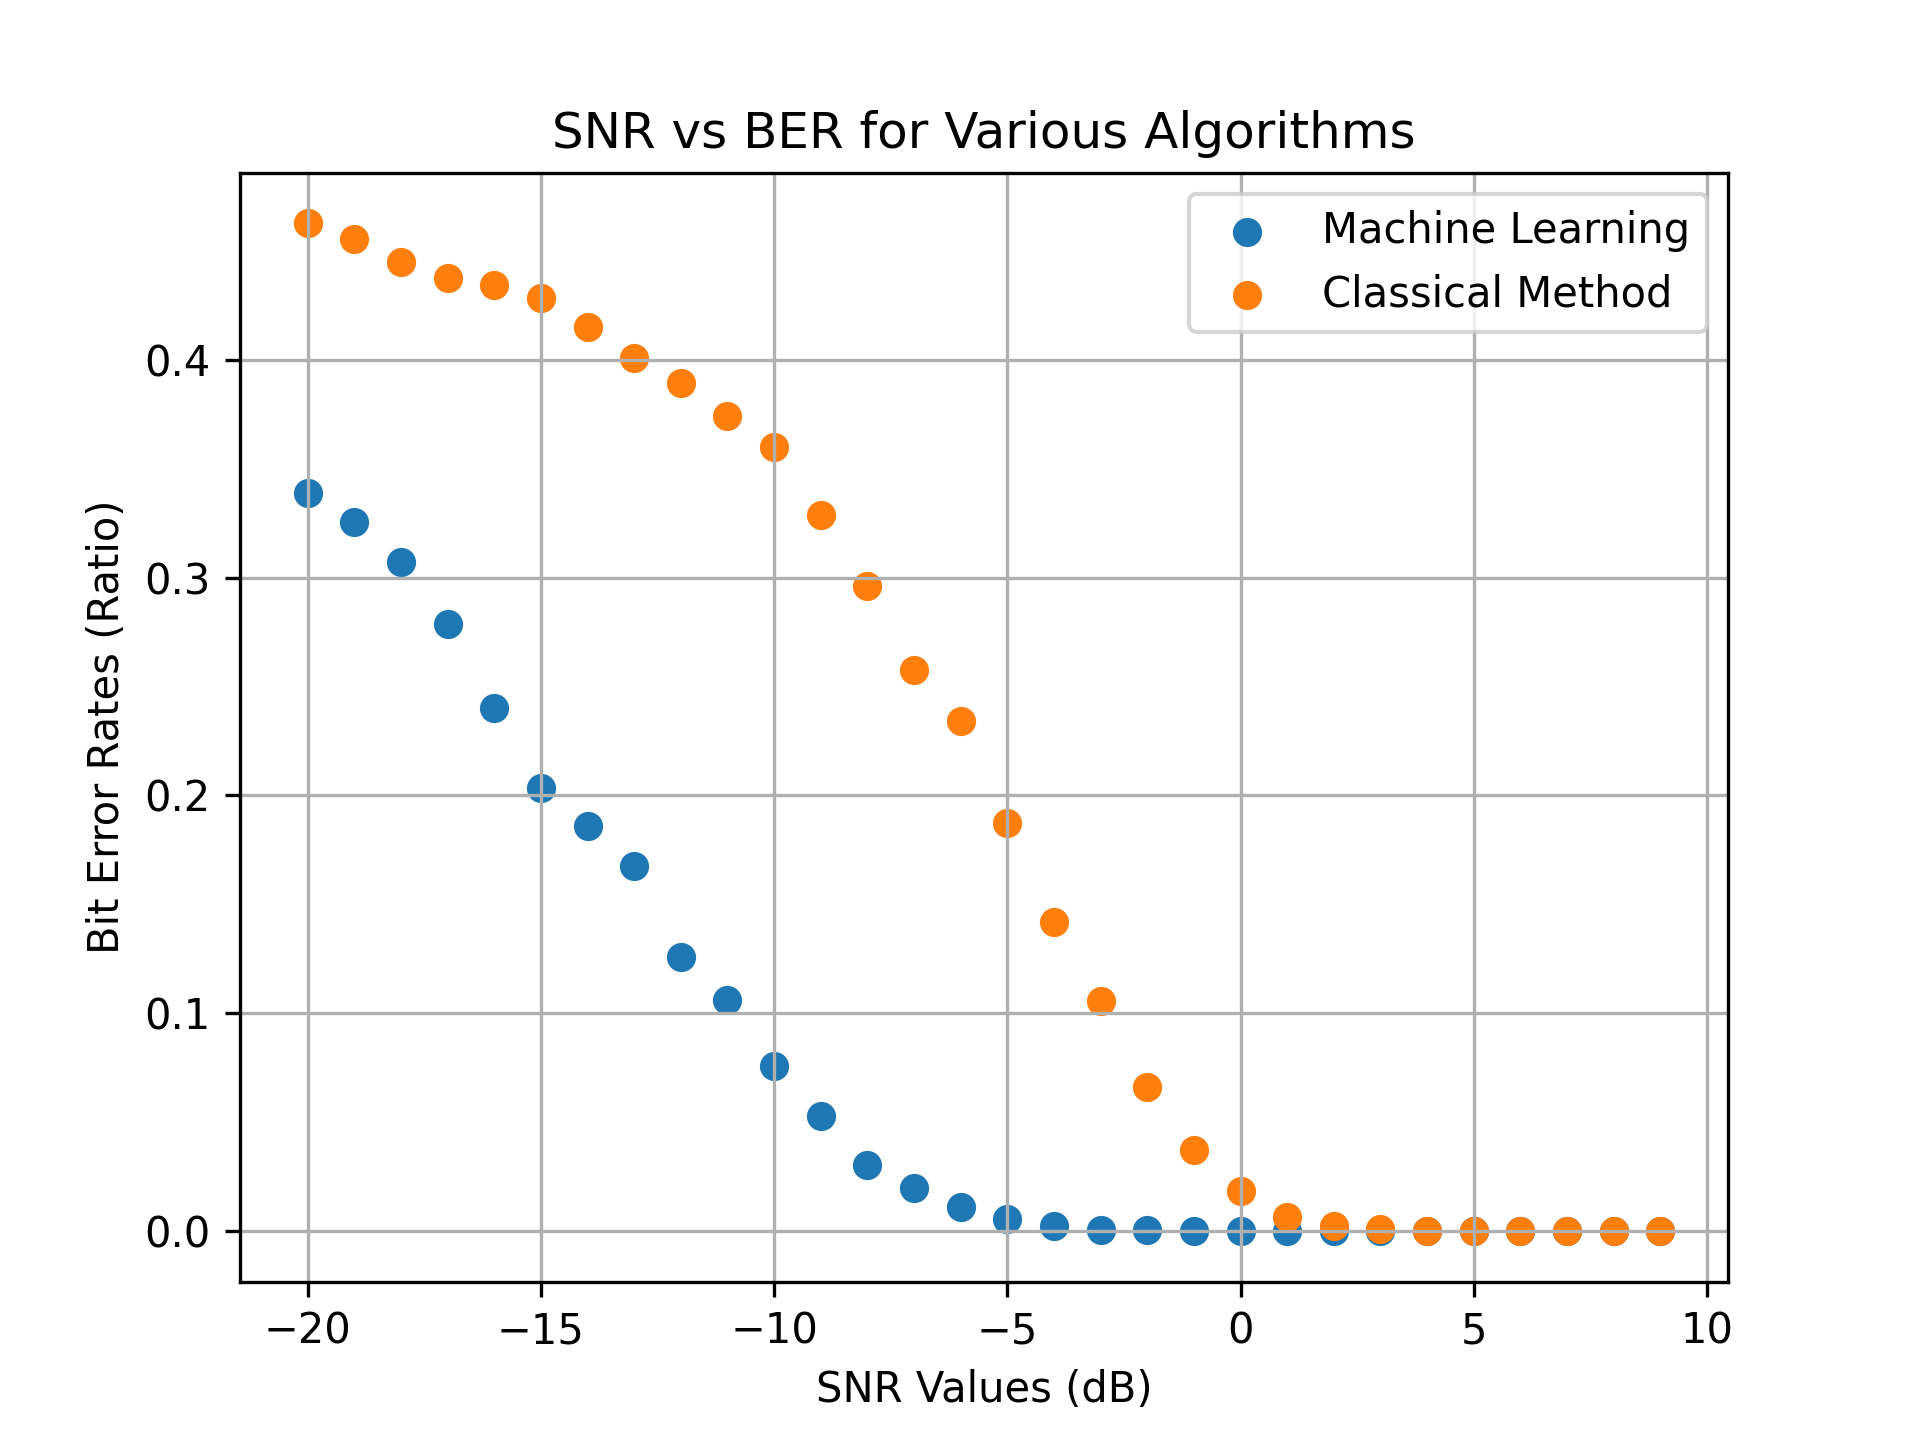
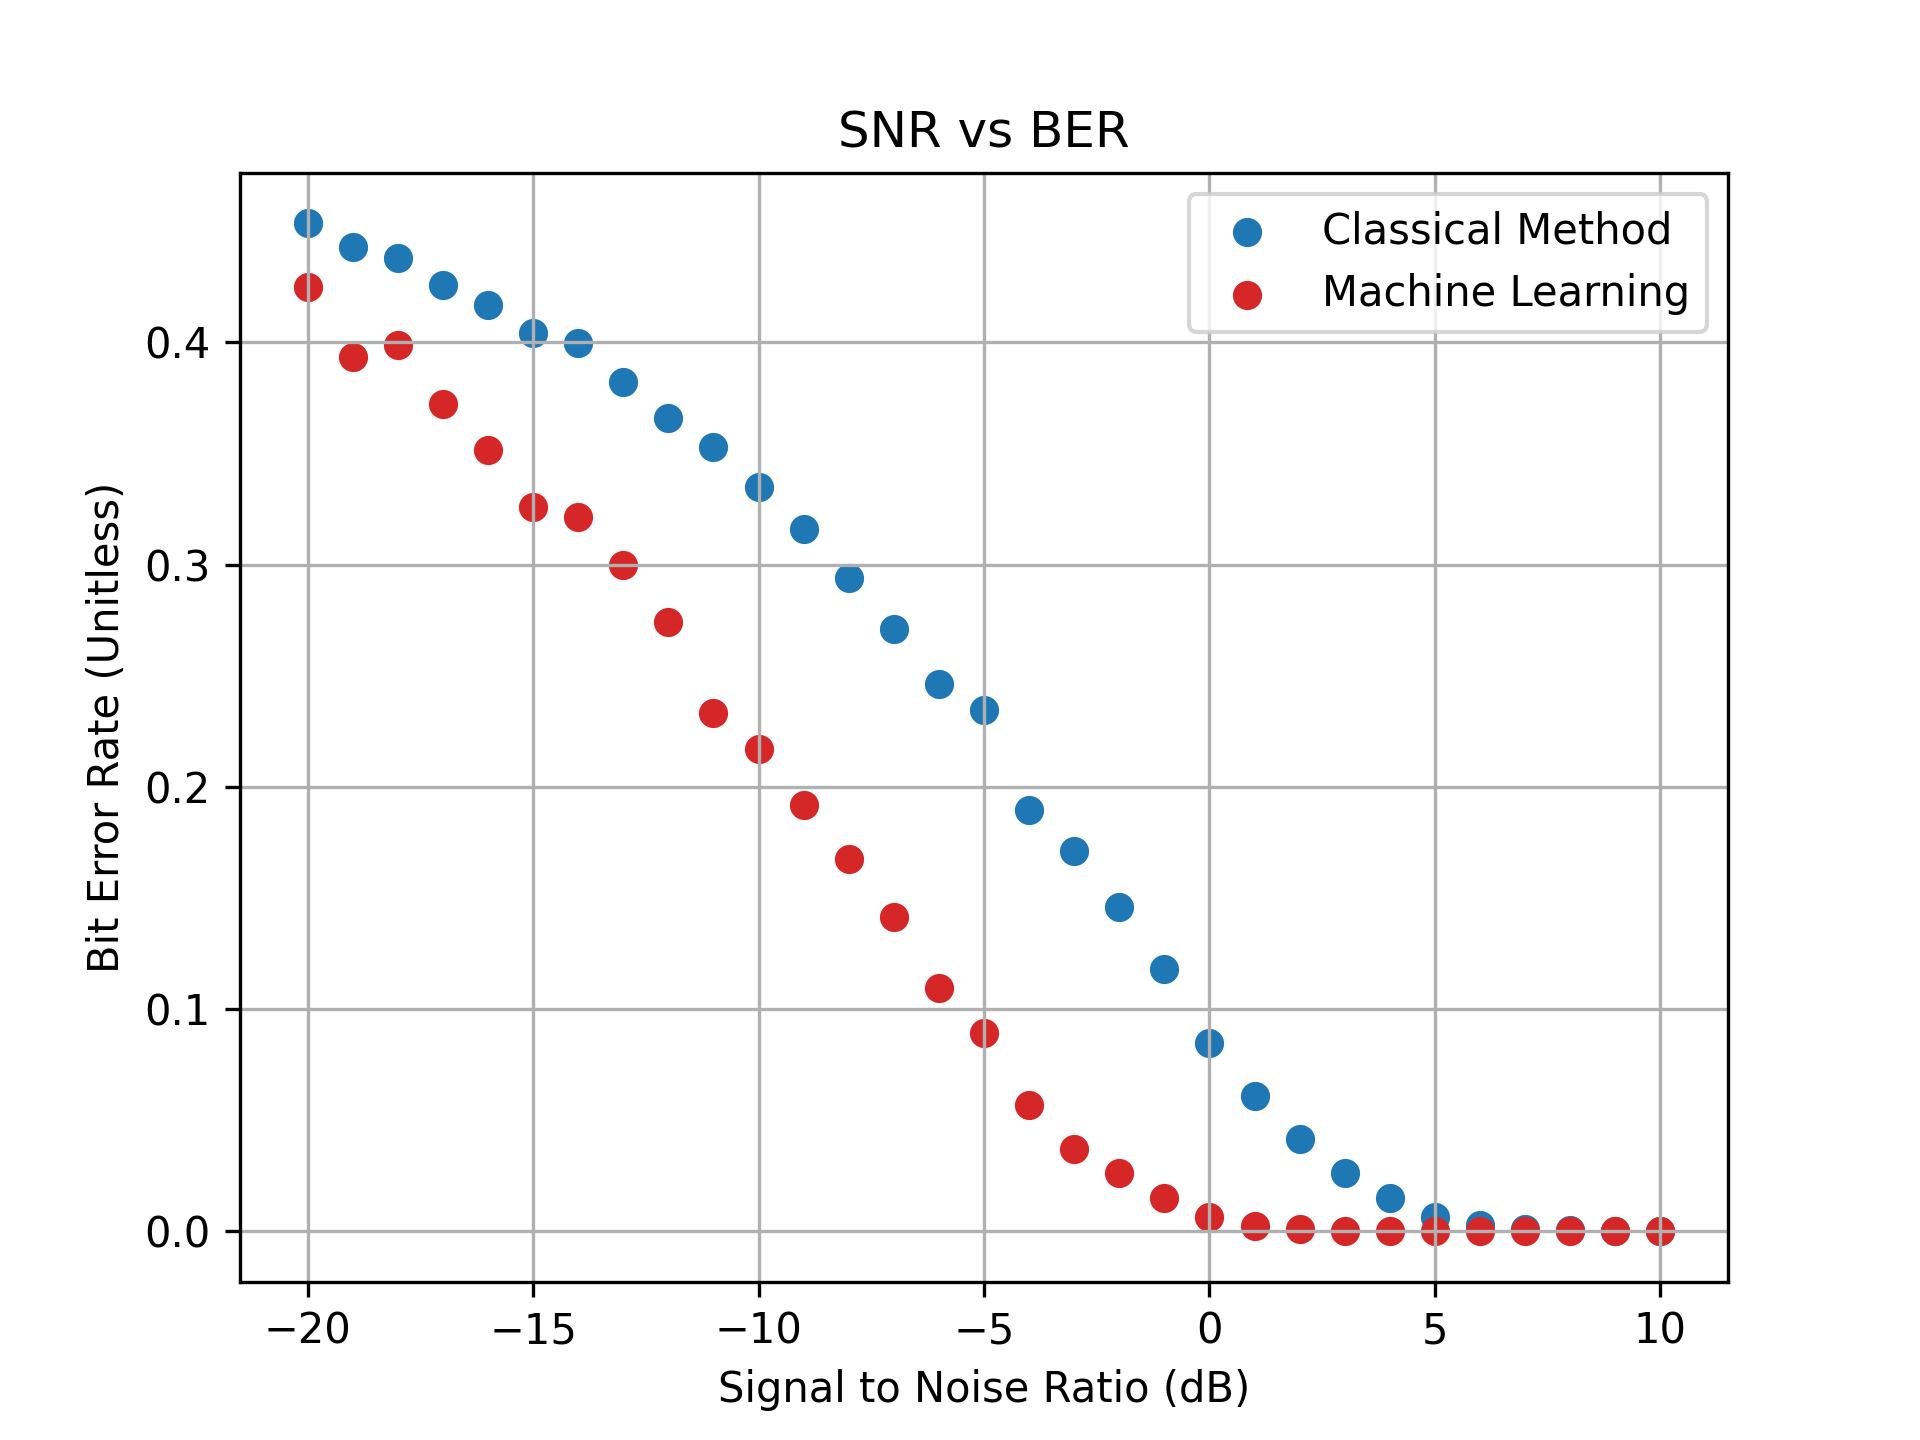
submit extra credit proj

diff --git a/projects/extra_credit/extra_credit.py b/projects/extra_credit/extra_credit.py
@@ -27,8 +27,9 @@ import os
 
 # Define the number of bits, the number of samples, the frequency of the sinewave, and whether to make a graph of SNR vs BER at the end.
 NUM_BITS = 10_000
-NUM_SAMP = 20
-FREQ = 10e6
+NUM_SAMP = 3
+# FREQ = 10e6
+FREQ = 1 / NUM_SAMP
 PERIOD = 1 / FREQ
 OMEGA = 2*np.pi*FREQ
 MAKE_GRAPH = False
@@ -38,15 +39,21 @@ MAKE_GRAPH = False
 ###########################################
 
 def generate_data(snr_dB: float):
-    """This function generates the data used by both the machine learning algorithm and the classical algorithm.\n
+    """This function generates the data used by both the machine learning algorithm and the classical algorithm.
 
-       *****Inputs*****\n
-       snr_dB: This is the signal to noise ratio expressed in dB. This is used to determine the noise standard deviation.\n
+    Parameters
+    ----------
+    snr_dB : float or int
+        This is the signal to noise ratio expressed in dB. This is used to determine the noise standard deviation.
        
-       *****Outputs*****\n
-       random_bits: This includes all of the randomly generated bits. We use this as the answer key.\n
-       sample_times: The points in time when we sampled the waveform. This is used in the classical demodulation algorithm.\n
-       dirty_array: The sample values of the sinewave we created, with the noise added to it."""
+    Returns
+    -------
+    random_bits : np.array
+       This includes all of the randomly generated bits. We use this as the answer key.
+    sample_times : np.array
+       The points in time when we sampled the waveform. This is used in the classical demodulation algorithm.
+    dirty_array : np.array
+       The sample values of the sinewave we created, with the noise added to it."""
 
     # Find the noise standard deviation associated with this SNR value.
     snr_rat = 10**(snr_dB/10)
@@ -75,16 +82,32 @@ def generate_data(snr_dB: float):
 ############################################
 
 def estimate_phase(sample_times: np.array, sample_values: np.array, freq_guesses: np.array):
-    """This function will estimate the phase of a sampled waveform.\n
+    """This function will estimate the phase of a sampled waveform.
 
-       ****Inputs*****\n
-       sample_times: The points in time when we sampled the waveform. This is used in the classical demodulation algorithm.\n
-       sample_values: The sample values of the sinewave we created, with the noise added to it.\n
-       freq_guesses: The frequency values that we want to test. The final answer will rely on the correct frequency being in this array.\n
+    Parameters
+    ----------
+    sample_times : np.array
+       The points in time when we sampled the waveform. This is used in the classical demodulation algorithm.
+    sample_values : np.array
+       The sample values of the sinewave we created, with the noise added to it.
+    freq_guesses : np.array
+       The frequency values that we want to test. The final answer will rely on the correct frequency being in this array.
 
-       *****Outputs*****\n
-       phase_est: This is the algorithm's estimate for what the phase of that waveform should be."""
+    Returns
+    -------
+    phase_est : float
+       This is the algorithm's estimate for what the phase of that waveform should be."""
     
+    # This code is taken from the module 4 examples and modified slightly. 
+    # We are attempting to find the frequency of the transmitted wave after traversing a noisy channel. 
+    # To do this, we are using the following equation: J = H * inv(HT*H) * HT*X
+    # H is a matrix with the first column being cos terms and the second being sin terms. Each row corresponds to a different sample.
+    # X is the vector of samples, and I chose to name that "sample_values" in my code. 
+    # After guessing a bunch of frequencies, we choose the best one and evaluate the equation for that frequency. 
+    # Once we substitute that frequency in, we arrive at the variable "c", at which point we take the arctangent of c[1] over c[0].
+    # Finally, we use the np.where function to decide whether to return d or its complement with pi. 
+    # The latter is necessary when the point in question lies in the 2nd or 3rd quadrants.
+
     J = list()
     h = np.zeros((NUM_SAMP, 2))
     for freq in freq_guesses:
@@ -110,17 +133,20 @@ def estimate_phase(sample_times: np.array, sample_values: np.array, freq_guesses
     phase_est = np.where(c[0] > 0, d, np.pi-d)
     return phase_est
 
-def evaluate_estimate(phase_est: float, correct_bit: float):
-    """This function will evaluate whether the received phase allows the receiver to correctly reconstruct the original data.\n
-       If the phase is greater than pi/2 or less than -pi/2, then we interpret that to be a bit 1.\n
-       We compare that with the correct bit to make our decision.\n
+def evaluate_estimate(phase_est: float, correct_bit: int):
+    """Now that RX has estimated the phase, we need to see whether that's what TX actually said.
+    If the phase is greater than pi/2 or less than -pi/2, then we interpret that to be a bit 1.
     
-       *****Inputs*****\n
-       phase_est: The phase estimate for this waveform at the receiver.\n
-       correct_bit: The actual bit used to create this waveform at the transmitter.\n
+    Parameters
+    ----------
+    phase_est : float
+        The phase estimate at RX.
+    correct_bit : int
+        The bit that TX wanted to communicate.
 
-       *****Outputs*****\n
-       bool: The function will return True if the received bit matches the transmitted bit, and False otherwise."""
+    Returns
+    -------
+    The function will return True if the received bit matches the transmitted bit, and False otherwise."""
 
     # If the phase estimate is closer to a phase of -pi, then interpret this bit as a 1. Otherwise 0.
     if (phase_est > np.pi/2) or (phase_est < -np.pi/2):
@@ -138,16 +164,22 @@ def evaluate_estimate(phase_est: float, correct_bit: float):
 ##### Estimate the phase using classical demodulation #####
 ###########################################################
 
-def demod_cl(random_bits: np.array, sample_times: np.array, dirty_array: np.array):
-    """This function demodulates the received signals using the classical methods.\n
+def demod_classic(random_bits: np.array, sample_times: np.array, dirty_array: np.array):
+    """This function demodulates the received signals using the classical method.
     
-       *****Inputs*****\n
-       random_bits: This includes all of the randomly generated bits. We use this as the answer key.\n
-       sample_times: The points in time when we sampled the waveform. This is used in the classical demodulation algorithm.\n
-       dirty_array: The sample values of the sinewave we created, with the noise added to it.\n
+    Parameters
+    ----------
+    random_bits : np.array
+        This includes all of the randomly generated bits. We use this as the answer key.
+    sample_times : np.array
+        The points in time when we sampled the waveform. This is used in the classical demodulation algorithm.
+    dirty_array : np.array
+        The sample values of the sinewave we created, with the noise added to it.
 
-       *****Outputs*****\n
-       ber: The bit error rate using the classical demodulation technique."""
+    Returns
+    -------
+    ber : float
+        The bit error rate using the classical demodulation technique."""
 
     # Initialize the array containing which frequencies we are going to guess and a variable storing the number of bit errors.
     freq_guesses = np.linspace(FREQ/10, FREQ*10, 20)
@@ -156,9 +188,10 @@ def demod_cl(random_bits: np.array, sample_times: np.array, dirty_array: np.arra
     # Loop over every bit in the generated data and determine whether that bit was interpreted correctly at the receiver.
     for idx, sample_values in enumerate(dirty_array):
         phase_est = estimate_phase(sample_times, sample_values, freq_guesses)
+        estimate_is_correct = evaluate_estimate(phase_est, random_bits[idx])
 
         # Add one to the count of bit errors if the noise caused the receiver to interpet the bit wrong.
-        if not evaluate_estimate(phase_est, random_bits[idx]):
+        if not estimate_is_correct:
             bit_errors += 1
 
     # Calculate the bit error rate and return that value to the next level.
@@ -169,16 +202,22 @@ def demod_cl(random_bits: np.array, sample_times: np.array, dirty_array: np.arra
 ##### Estimate the phase using machine learning #####
 #####################################################
 
-def demod_ml(random_bits: np.array, dirty_array: np.array, num_neigh=100):
+def demod_knn(random_bits: np.array, dirty_array: np.array, num_neigh=100):
     """This function demodulates the signal using machine learning, more specifically the KNN algorithm.\n
        
-       *****Inputs*****
-       random_bits: This includes all of the randomly generated bits. We use this as the answer key.\n
-       dirty_array: The sample values of the sinewave we created, with the noise added to it.\n
-       num_neigh: The number of neighbors used for the KNN algorithm. Default value is set to 100.\n
+    Parameters
+    ----------
+    random_bits : np.array
+        This includes all of the randomly generated bits. We use this as the answer key.\n
+    dirty_array : np.array
+        The sample values of the sinewave we created, with the noise added to it.\n
+    num_neigh : int
+        The number of neighbors used for the KNN algorithm. Default value is set to 100.\n
 
-       *****Outputs*****
-       ber: The bit error rate for the machine learning algorithm."""
+    Returns
+    -------
+    ber: float
+        The bit error rate for the machine learning algorithm."""
 
     # Create the test and training split.
     df = pd.DataFrame(data=dirty_array)
@@ -208,12 +247,12 @@ if __name__ == "__main__":
 
     # Generate the data and demodulate using both the machine learning and classical algorithms.
     # Next, print that information to the terminal as described in the prompt.
-    random_bits, sample_times, dirty_array = generate_data(snr_dB=-10)
+    random_bits, sample_times, dirty_array = generate_data(snr_dB=0)
 
     # cl stands for the classical algorithm.
     # ml stands for the machine learning algorithm, KNN in this case.  
-    ber_cl = demod_cl(random_bits, sample_times, dirty_array)
-    ber_ml = demod_ml(random_bits, dirty_array)
+    ber_cl = demod_classic(random_bits, sample_times, dirty_array)
+    ber_ml = demod_knn(random_bits, dirty_array)
     print([round(ber_cl, 3)])
     print([round(ber_ml, 3)])
     
@@ -223,7 +262,7 @@ if __name__ == "__main__":
         sys.exit()
 
     # Create arrays of the SNR values and bit error rates for each demodulation technique.
-    snr_values = np.arange(-20, 10, step=1)
+    snr_values = np.arange(-20, 10+1, step=1)
     ber_vals_ml = np.zeros(snr_values.size)
     ber_vals_cl = np.zeros(snr_values.size)
 
@@ -237,8 +276,8 @@ if __name__ == "__main__":
         random_bits, sample_times, dirty_array = generate_data(snr_dB)
 
         # Demodulate the waveform using both the machine learning algorithm and the classical demodulation technique.
-        ber_cl = demod_cl(random_bits, sample_times, dirty_array)
-        ber_ml = demod_ml(random_bits, dirty_array)
+        ber_cl = demod_classic(random_bits, sample_times, dirty_array)
+        ber_ml = demod_knn(random_bits, dirty_array)
 
         # Add those results to arrays for each algorithm.
         ber_vals_cl[idx] = ber_cl
@@ -249,13 +288,13 @@ if __name__ == "__main__":
         print(f'snr = {snr_dB}; elapsed = {t1-t0:.3f} s')
 
     # Create a graph comparing the bit error rates for the machine learning and classical techniques.
-    plt.scatter(snr_values, ber_vals_cl, label='Classical Method')
-    plt.scatter(snr_values, ber_vals_ml, label='Machine Learning')
-    plt.xlabel('SNR Values (dB)')
-    plt.ylabel('Bit Error Rates (Ratio)')
-    plt.title('SNR vs BER for Various Algorithms')
+    plt.scatter(snr_values, ber_vals_cl, label='Classical Method', color='tab:blue')
+    plt.scatter(snr_values, ber_vals_ml, label='Machine Learning', color='tab:red')
+    plt.xlabel('Signal to Noise Ratio (dB)')
+    plt.ylabel('Bit Error Rate (Unitless)')
+    plt.title('SNR vs BER')
     plt.legend()
     plt.grid(True)
-    plt.savefig('projects/extracredit/ber_vs_snr.png', dpi=300)
+    plt.savefig('projects/extra_credit/ber_vs_snr.png', dpi=300)
     plt.show()
 
